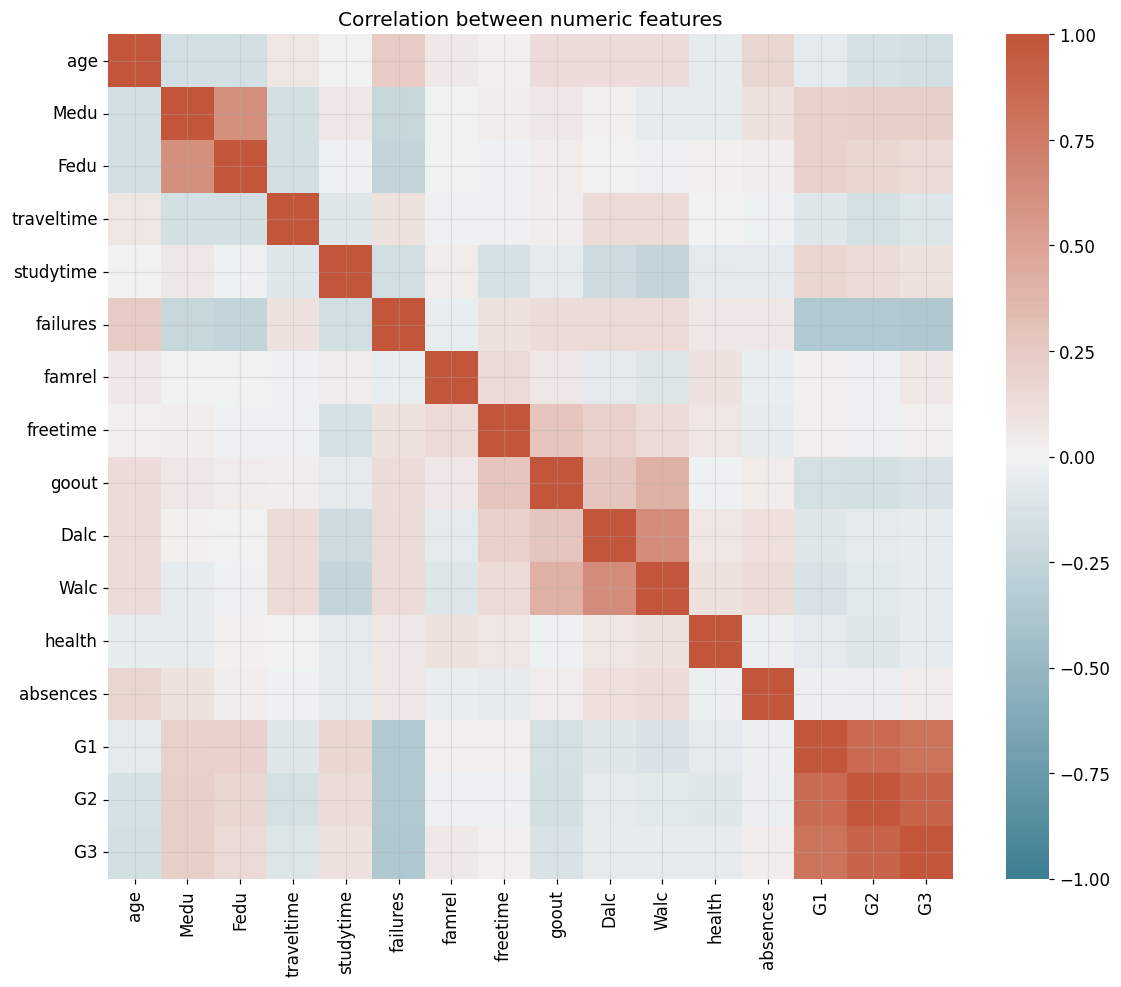
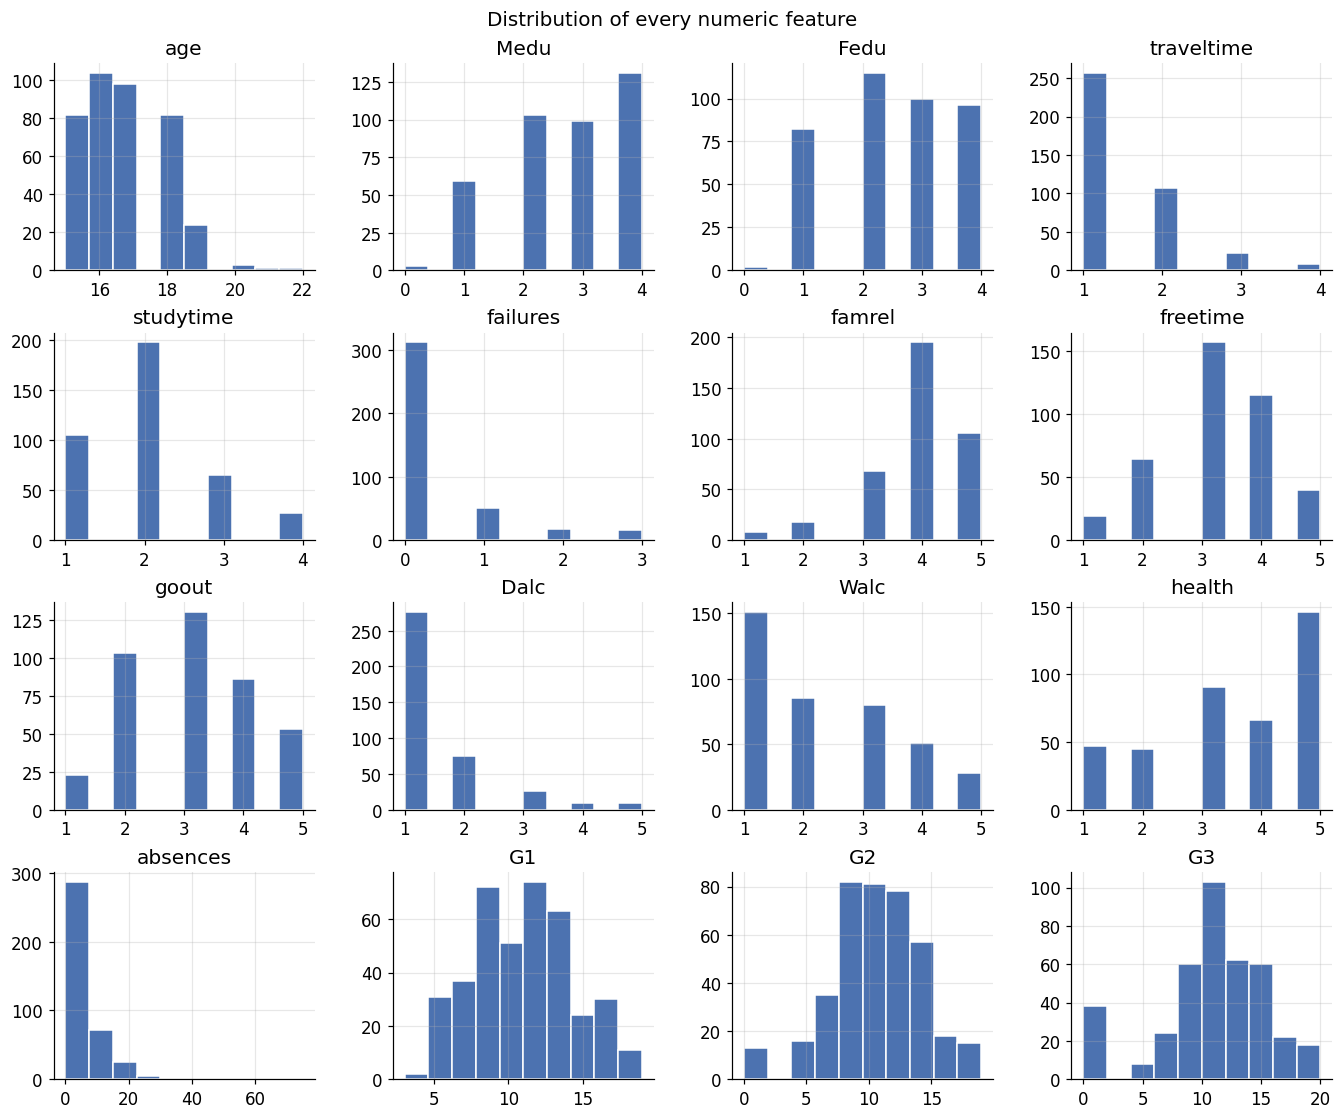
Deployed 3a1958a with MkDocs version: 1.6.1

diff --git a/index.html b/index.html
@@ -137,5 +137,5 @@
 
 <!--
 MkDocs version : 1.6.1
-Build Date UTC : 2026-07-02 11:43:46.693878+00:00
+Build Date UTC : 2026-07-02 12:02:44.913672+00:00
 -->